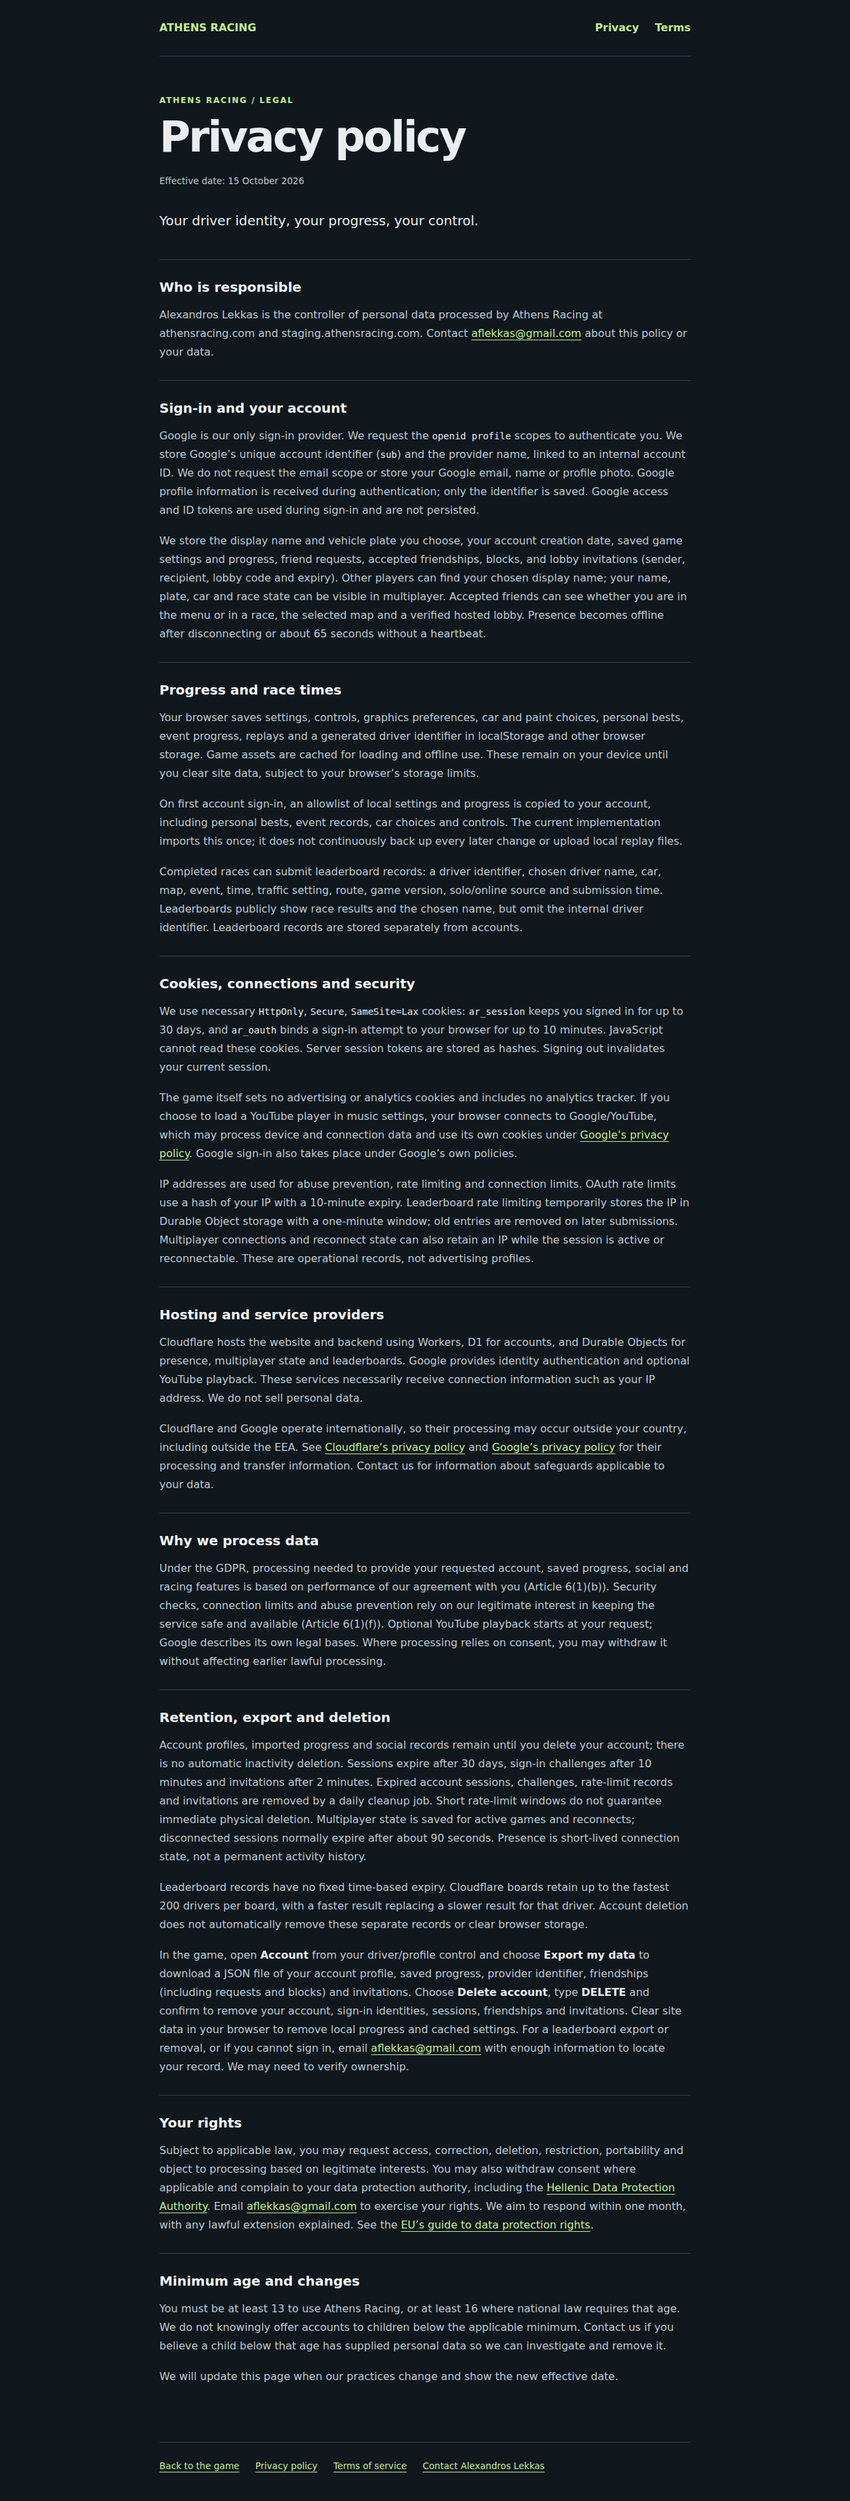
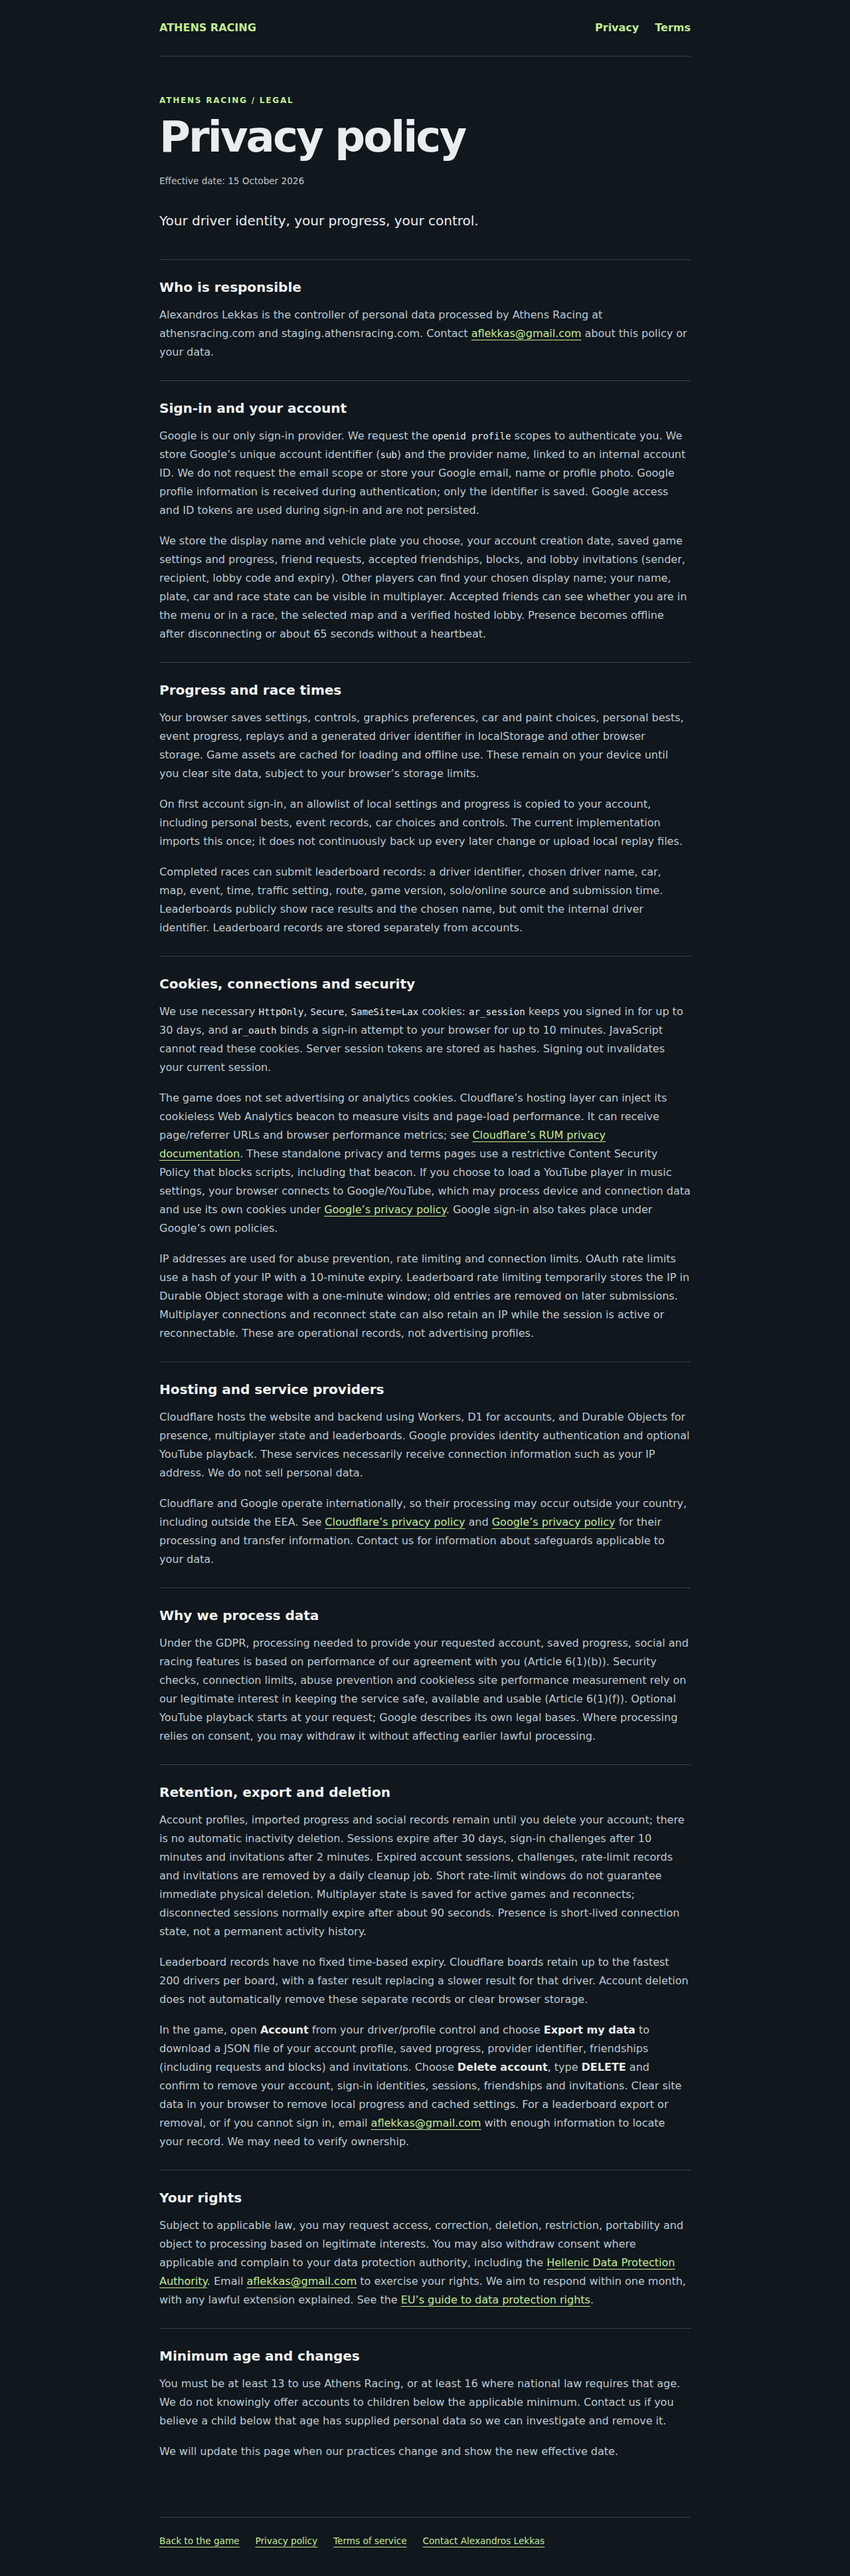
Disclose the Cloudflare-injected cookieless performance beacon

Changed region(s): [[0.1875, 0.0311, 0.8125, 0.9639]]

diff --git a/.scratch/privacy/README.md b/.scratch/privacy/README.md
@@ -10,7 +10,7 @@ Screenshots at 1280×900 and 390×844 cover the privacy/terms pages, sign-in lin
 - Account progress is a one-time allowlisted import, not continuous cloud synchronization.
 - Account export/deletion do not include the separate leaderboard database, active multiplayer records or local browser storage. The policy directs leaderboard requests to the contact email and explains browser clearing.
 - IP handling is operational but not solely in-memory: leaderboard IP limits and reconnect state use Durable Object storage. OAuth IP hashes have expiry and daily cleanup; leaderboard old IP rows are removed on subsequent submissions. No fixed provider log/backup retention or specific international transfer safeguards are established in the code; none are invented here.
-- No game analytics tracker was found. Optional YouTube playback explicitly connects to Google/YouTube and has its own cookie/privacy practices.
+- No analytics tracker is included in the game source. Live Chrome inspection found Cloudflare hosting injects a cookieless Web Analytics beacon (`static.cloudflareinsights.com/beacon.min.js`) into browser responses. The policy discloses this. Its strict CSP blocks scripts on these legal pages. Optional YouTube playback explicitly connects to Google/YouTube and has its own cookie/privacy practices.
 - The minimum-age rule is published, but code does not verify date of birth. Account routes and consent do not implement a separate age-verification flow.
 - No automatic inactive-account deletion or timed leaderboard expiry exists.
 
